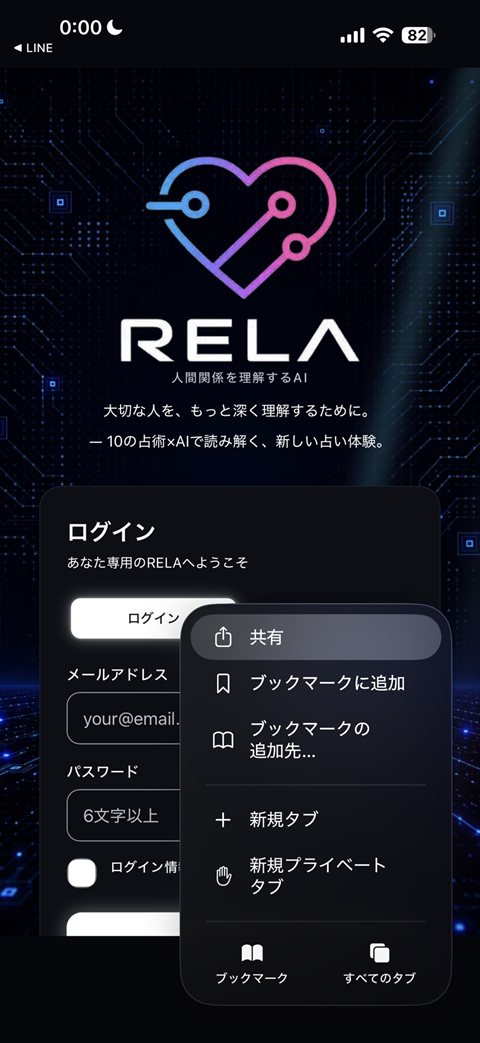
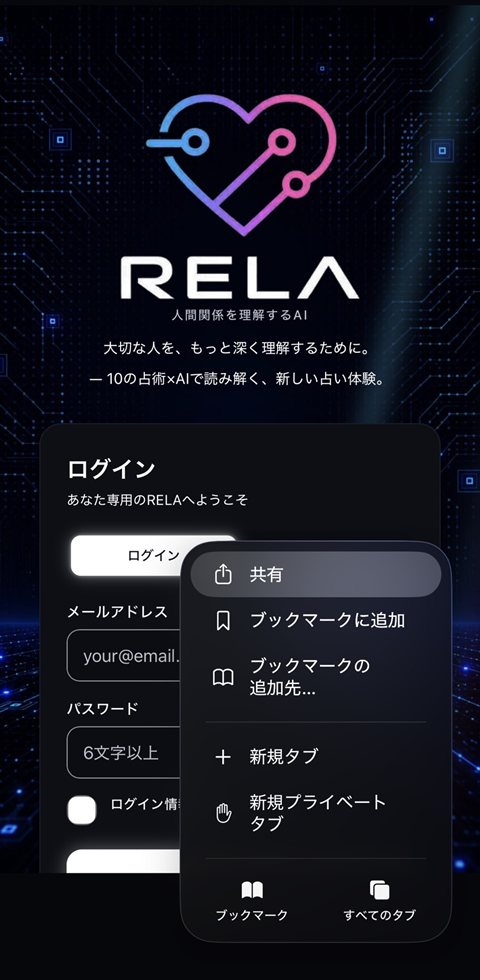
feat(lp): できこと画像を並び替え＋2枚追加、守護石を全体表示、アプリ導線の高さ揃え
- できこと並び順を 総合/自己/バイオリズム/守護石/手相/人相/チーム/イメージ/チャクラ に。
  属性神社・守護神カードは一覧から外し、末尾に「未来ビジョン」「守護神」を追加。
- 守護石カードは画像が見切れていたため object-fit:contain で全体表示に。
- 「アプリのように使う」2枚目の上部時間バーをカット＋3枚をaspect-ratioで高さ統一(PC整列)。

Claude-Session: https://claude.ai/code/session_01EQLBVha8gw1GnW2XQMCjcz

diff --git a/lp.html b/lp.html
@@ -282,7 +282,8 @@ header{position:fixed;inset:0 0 auto 0;z-index:60;backdrop-filter:blur(14px);
 /* ホーム画面に追加する方法(スクショ手順) */
 .addhome-grid{display:grid;grid-template-columns:repeat(3,1fr);gap:26px;max-width:900px;margin:6px auto 0}
 .addhome-card{display:flex;flex-direction:column;align-items:center;text-align:center}
-.addhome-shot{width:100%;max-width:260px;border-radius:20px;display:block;border:1px solid var(--line);
+.addhome-shot{width:100%;max-width:260px;aspect-ratio:48/98;object-fit:cover;object-position:top;
+  border-radius:20px;display:block;border:1px solid var(--line);
   box-shadow:0 14px 34px rgba(0,0,0,.45);background:#05070f}
 .addhome-step{display:flex;align-items:center;gap:9px;margin:16px 0 4px}
 .addhome-card h3{font-size:15px;color:var(--ink);margin:0;font-weight:800}
@@ -344,6 +345,7 @@ header{position:fixed;inset:0 0 auto 0;z-index:60;backdrop-filter:blur(14px);
   font-size:10.5px;color:var(--ink-soft);text-align:left;
 }
 .mini .mini-shot{width:100%;height:380px;object-fit:cover;object-position:top center;border-radius:26px;display:block;box-shadow:inset 0 0 0 1px rgba(255,255,255,.06)}
+.mini .mini-shot.fit{object-fit:contain;background:#05070f}
 .mini .m-title{font-family:'Audiowide',sans-serif;font-size:13px;letter-spacing:.2em;color:#fff;
   text-align:center;text-shadow:0 0 10px rgba(79,216,255,.6)}
 .mini .row{display:flex;gap:8px}
@@ -574,25 +576,32 @@ footer{position:relative;z-index:1;border-top:1px solid var(--line);padding:44px
         </div>
       </div>
 
-      <!-- 1 RELA総合分析 -->
+      <!-- 1 総合分析 -->
       <div class="f-item rv">
         <h3>RELA 総合分析</h3>
         <div class="mini"><img class="mini-shot" src="assets/ss-home.jpg" alt="ホーム画面。今日の運勢スコアと各分析メニュー" loading="lazy"></div>
         <p>あらゆる分析を統合し、関係性・性格・未来の可能性までAIが総合的に解説。</p>
       </div>
 
-      <!-- 2 チーム編成 -->
+      <!-- 2 自己分析 -->
       <div class="f-item rv">
-        <h3>チーム編成</h3>
-        <div class="mini"><img class="mini-shot" src="assets/ss-team.jpg" alt="チーム編成。用途に合わせてチームの種類を選ぶ画面" loading="lazy"></div>
-        <p>AIが最適なチーム編成を分析。役割・相性まで総合的に提案。</p>
+        <h3>自己分析</h3>
+        <div class="mini"><img class="mini-shot" src="assets/ss-self.jpg" alt="自己分析レポート。共感力・信頼構築力などをRELAスコアで可視化" loading="lazy"></div>
+        <p>あなたの性格・強み・傾向をRELAスコアで数値化。自分を客観的に理解できます。</p>
       </div>
 
-      <!-- 4 チャクラ -->
+      <!-- 3 運気バイオリズム -->
       <div class="f-item rv">
-        <h3>チャクラ</h3>
-        <div class="mini"><img class="mini-shot" src="assets/ss-chakra.jpg" alt="チャクラ分析。第1〜第12チャクラの開放度をアートで表示" loading="lazy"></div>
-        <p>7つのチャクラの状態を分析し、心と体のバランスを整えるヒントに。</p>
+        <h3>運気バイオリズム</h3>
+        <div class="mini"><img class="mini-shot" src="assets/ss-biorhythm.jpg" alt="運気バイオリズム。四柱推命から一年の総合・仕事・恋愛・金運を月別グラフで表示" loading="lazy"></div>
+        <p>四柱推命をもとに一年の運気の波を月別グラフで可視化。動く時期がひと目でわかります。</p>
+      </div>
+
+      <!-- 4 守護石 -->
+      <div class="f-item rv">
+        <h3>守護石</h3>
+        <div class="mini"><img class="mini-shot fit" src="assets/ss-stone.jpg" alt="守護石の効果。あなたを支えるパワーストーンとその活かし方" loading="lazy"></div>
+        <p>あなたを支える守護石（パワーストーン）と、その意味・活かし方をお届けします。</p>
       </div>
 
       <!-- 5 手相分析 -->
@@ -609,39 +618,39 @@ footer{position:relative;z-index:1;border-top:1px solid var(--line);padding:44px
         <p>顔写真から性格や思考傾向を分析。第一印象や強みを可視化します。</p>
       </div>
 
-      <!-- 7 自己分析 -->
+      <!-- 7 チーム編成 -->
       <div class="f-item rv">
-        <h3>自己分析</h3>
-        <div class="mini"><img class="mini-shot" src="assets/ss-self.jpg" alt="自己分析レポート。共感力・信頼構築力などをRELAスコアで可視化" loading="lazy"></div>
-        <p>あなたの性格・強み・傾向をRELAスコアで数値化。自分を客観的に理解できます。</p>
+        <h3>チーム編成</h3>
+        <div class="mini"><img class="mini-shot" src="assets/ss-team.jpg" alt="チーム編成。用途に合わせてチームの種類を選ぶ画面" loading="lazy"></div>
+        <p>AIが最適なチーム編成を分析。役割・相性まで総合的に提案。</p>
       </div>
 
-      <!-- 8 運気バイオリズム -->
-      <div class="f-item rv">
-        <h3>運気バイオリズム</h3>
-        <div class="mini"><img class="mini-shot" src="assets/ss-biorhythm.jpg" alt="運気バイオリズム。四柱推命から一年の総合・仕事・恋愛・金運を月別グラフで表示" loading="lazy"></div>
-        <p>四柱推命をもとに一年の運気の波を月別グラフで可視化。動く時期がひと目でわかります。</p>
-      </div>
-
-      <!-- 9 属性神社・守護神 -->
-      <div class="f-item rv">
-        <h3>属性神社・守護神</h3>
-        <div class="mini"><img class="mini-shot" src="assets/ss-shrine.jpg" alt="属性神社・守護神。あなたの属性に合う守護神と相性の良い神社・パワースポット" loading="lazy"></div>
-        <p>あなたの属性に合う守護神と、相性の良い神社・パワースポットを提案します。</p>
-      </div>
-
-      <!-- 10 守護石 -->
-      <div class="f-item rv">
-        <h3>守護石</h3>
-        <div class="mini"><img class="mini-shot" src="assets/ss-stone.jpg" alt="守護石の効果。あなたを支えるパワーストーンとその活かし方" loading="lazy"></div>
-        <p>あなたを支える守護石（パワーストーン）と、その意味・活かし方をお届けします。</p>
-      </div>
-
-      <!-- 11 イメージ画像を生成 -->
+      <!-- 8 イメージ画像を生成 -->
       <div class="f-item rv">
         <h3>イメージ画像を生成</h3>
         <div class="mini"><img class="mini-shot" src="assets/ss-imagegen.jpg" alt="イメージ画像を生成。守護神・エネルギーカラー・未来ビジョンをAIが画像化" loading="lazy"></div>
         <p>守護神・エネルギーカラー・未来ビジョンなどを、AIがあなただけのアート画像に。待受にも。</p>
+      </div>
+
+      <!-- 9 チャクラ -->
+      <div class="f-item rv">
+        <h3>チャクラ</h3>
+        <div class="mini"><img class="mini-shot" src="assets/ss-chakra.jpg" alt="チャクラ分析。第1〜第12チャクラの開放度をアートで表示" loading="lazy"></div>
+        <p>7つのチャクラの状態を分析し、心と体のバランスを整えるヒントに。</p>
+      </div>
+
+      <!-- 10 未来ビジョン -->
+      <div class="f-item rv">
+        <h3>未来ビジョン</h3>
+        <div class="mini"><img class="mini-shot" src="assets/ss-future.jpg" alt="未来ビジョン。運気が満ちる場所と行動をAIが一枚の情景に描く" loading="lazy"></div>
+        <p>運気が満ちる場所と行動を、AIが一枚の情景に。実際に訪れる姿を思い描けます。</p>
+      </div>
+
+      <!-- 11 守護神 -->
+      <div class="f-item rv">
+        <h3>守護神</h3>
+        <div class="mini"><img class="mini-shot" src="assets/ss-guardian.jpg" alt="守護神。あなたの属性を宿す守護神をAIが荘厳なアートに描く" loading="lazy"></div>
+        <p>あなたの属性を宿す守護神を、AIが荘厳なアート画像に描き出します。</p>
       </div>
     </div>
   </div>
